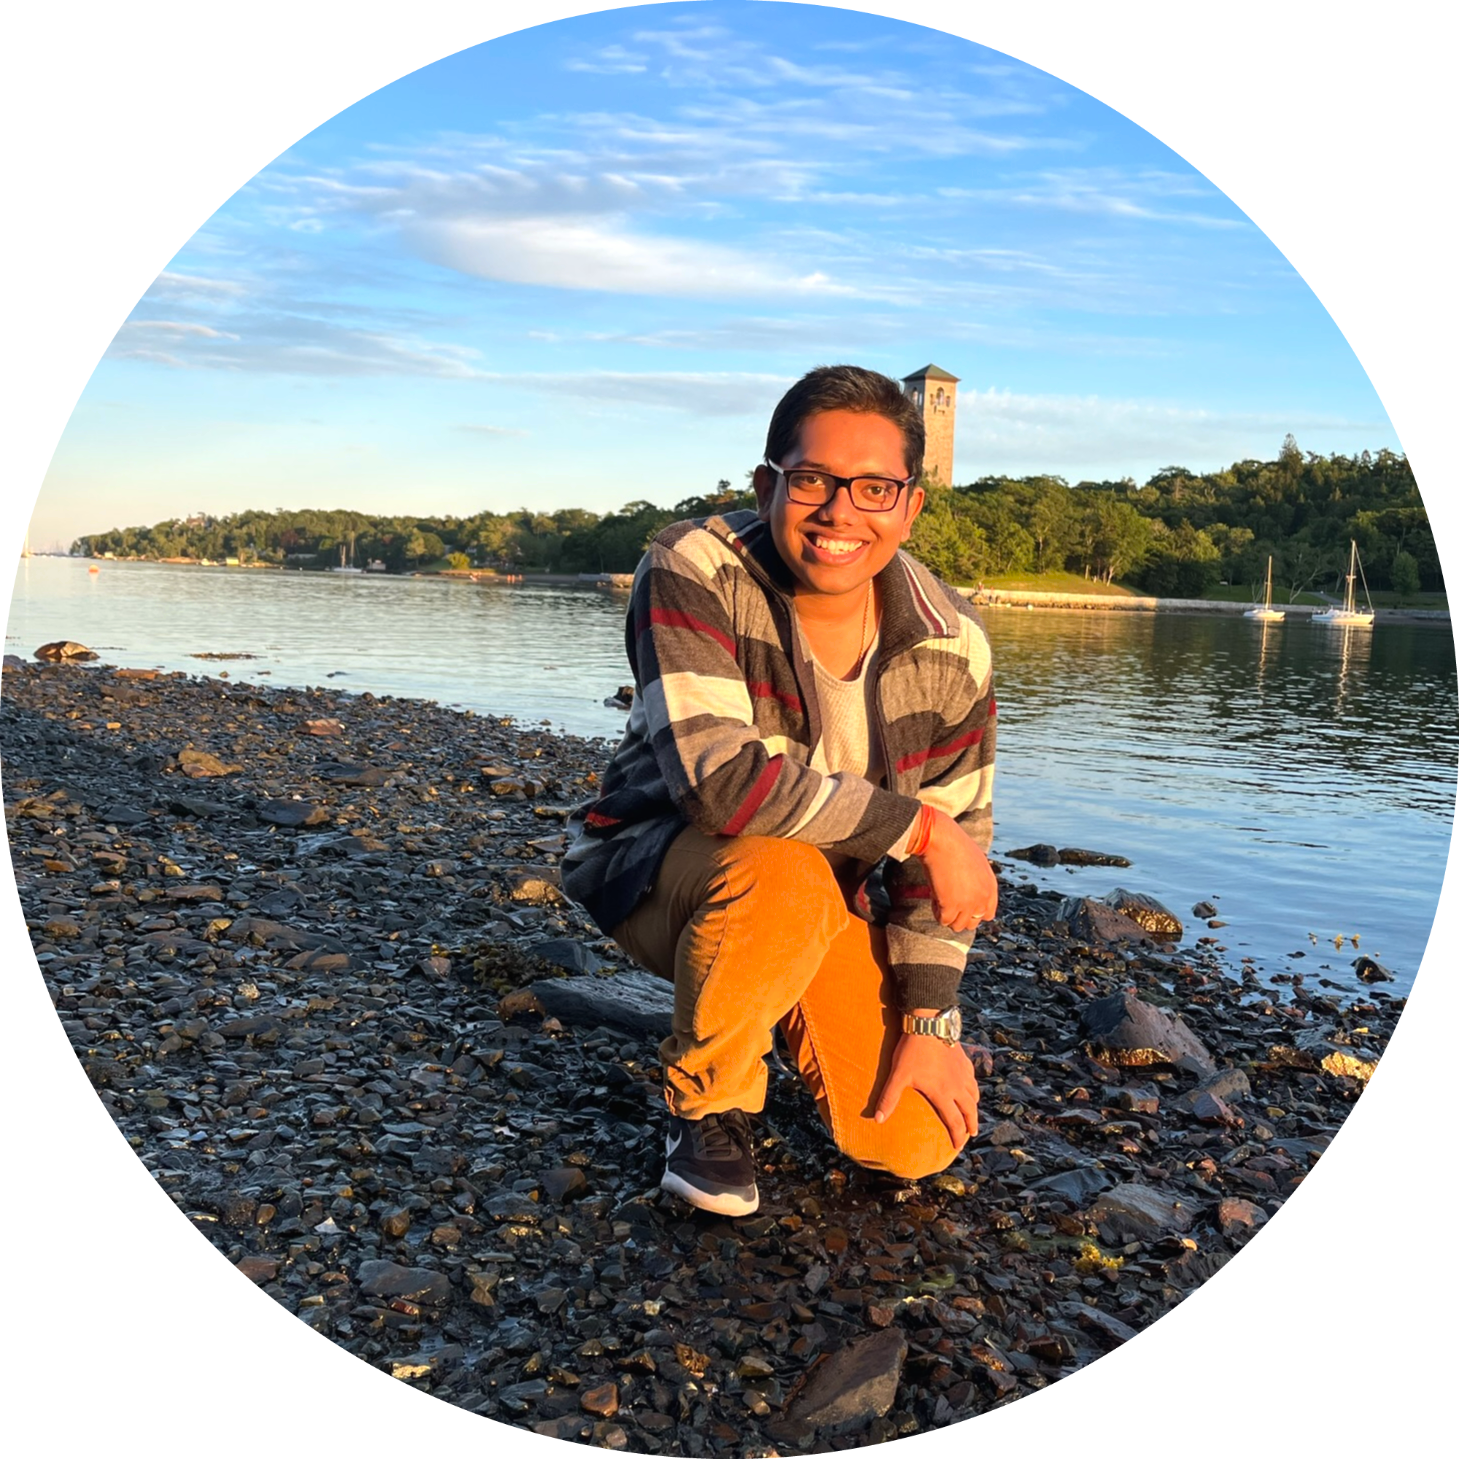
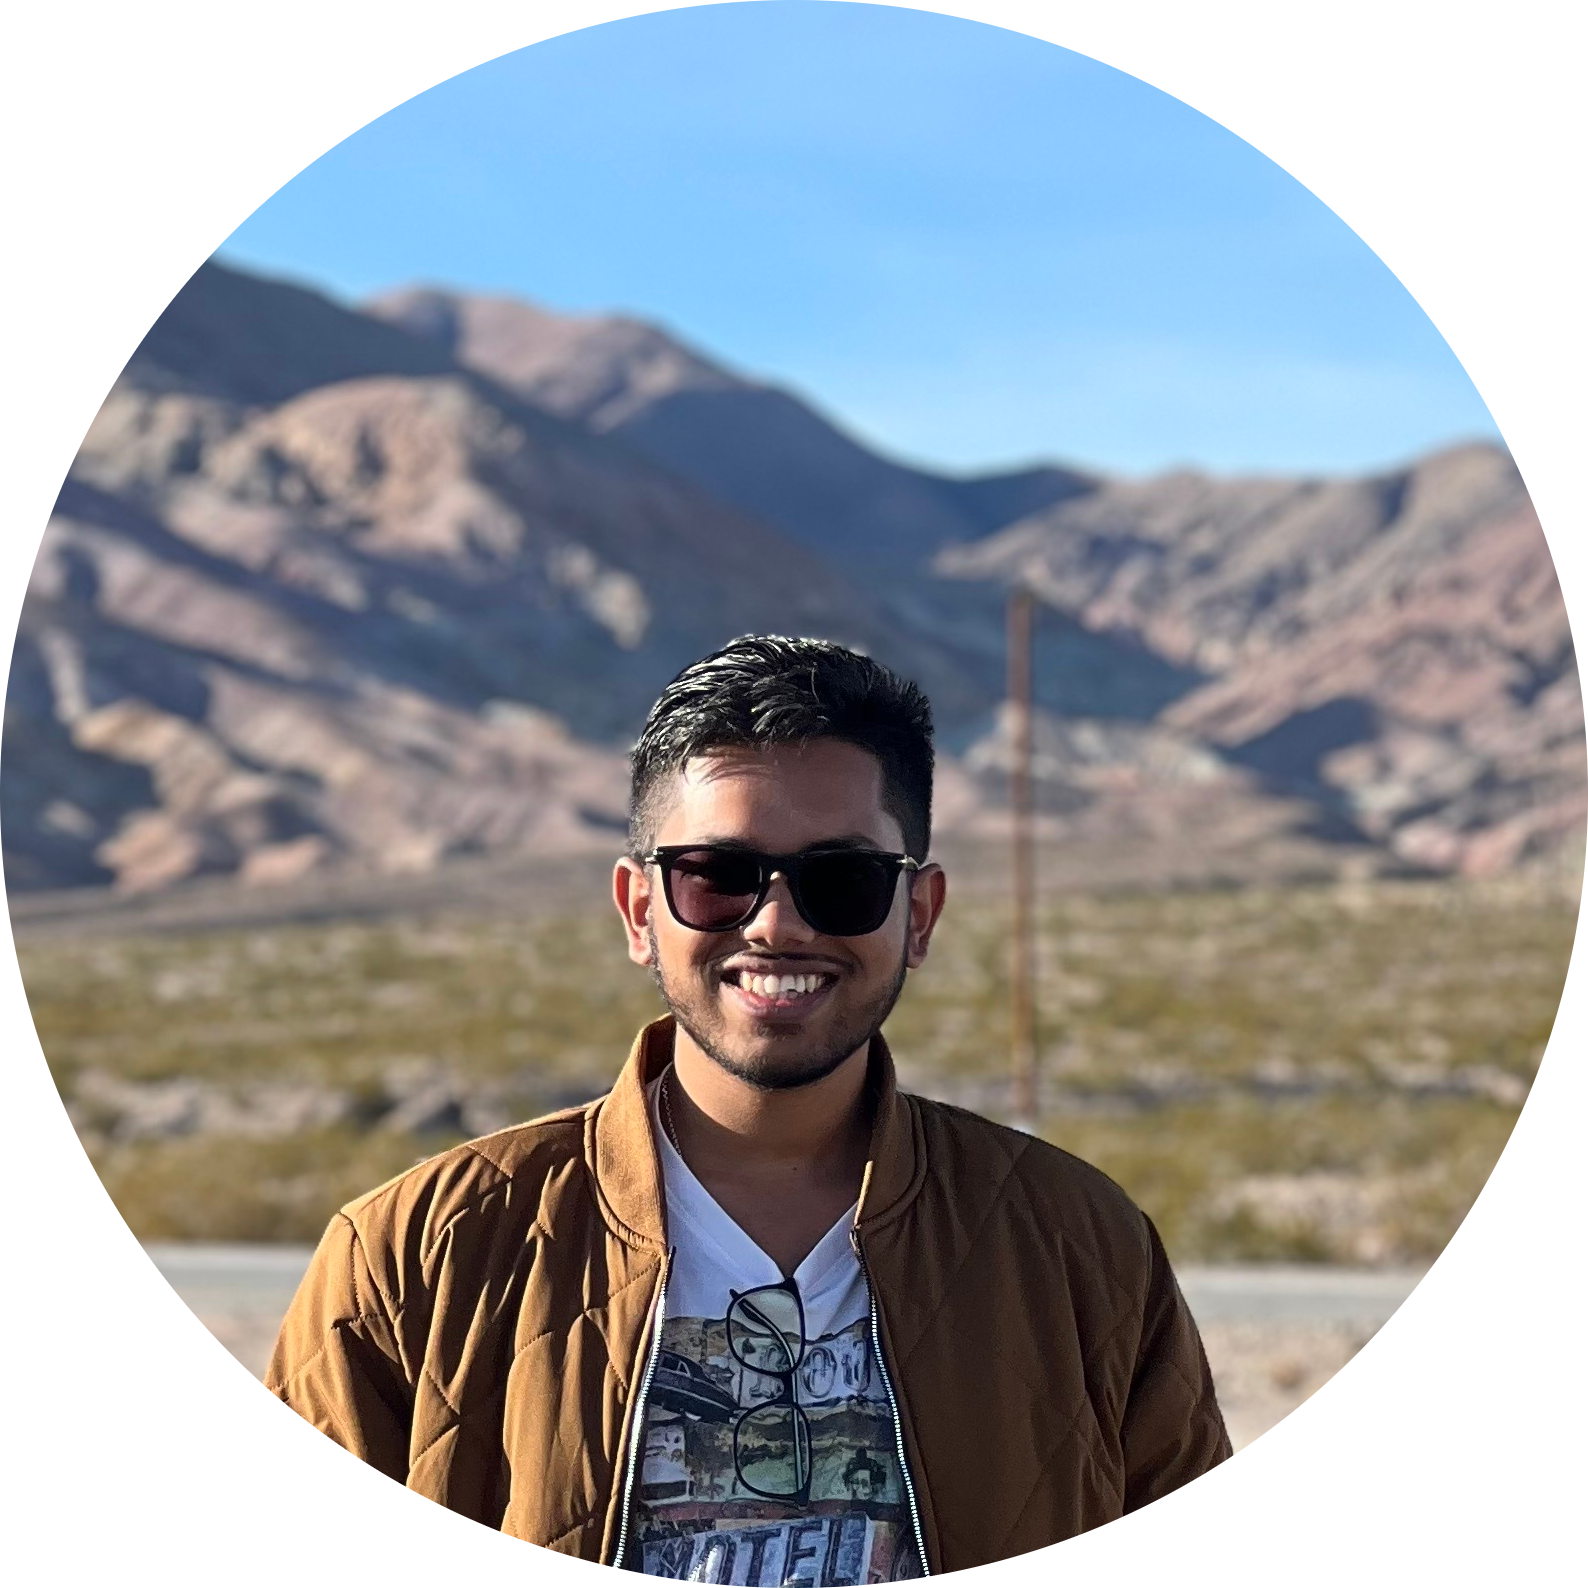
update

diff --git a/index.html b/index.html
@@ -52,12 +52,12 @@
               </head>
               
 
-              <p>I am a first year Ph.D. student at <strong>University of California, Riverside</strong> 
-                advised by <a href="https://vcg.ece.ucr.edu/amit">Prof. Amit K. Roy Chowdhury</a> and <a href="https://sites.google.com/view/arcs-lab/">Prof. Konstantinos Karydis</a>. 
-                I received my Bachelor in Technology (BTech.) degree in Computer Science and Engineering from <a href="https://www.caluniv.ac.in/campuses/campus-8.html">University of Calcutta</a>, India.
+              <p>I am a Ph.D. student at <strong>University of California, Riverside</strong> 
+                co-advised by Professors <a href="https://vcg.ece.ucr.edu/amit">Amit K. Roy Chowdhury</a> and <a href="https://sites.google.com/view/arcs-lab/">Konstantinos Karydis</a>. 
+                My research revolves around how autonomous systems perceive this world and building pipelines that can enable them to understand scenes using minimal supervision just as humans do.
               </p>
               
-              <p>I am fortunate to be advised by outstanding researchers over the years. I interned at <strong>Siemens</strong> with the <strong>Future of Automation (FoA) division</strong> 
+              <p>I received my Bachelor in Technology (BTech.) degree in Computer Science and Engineering from <a href="https://www.caluniv.ac.in/campuses/campus-8.html">University of Calcutta</a>, India. I am fortunate to be advised by some amazing researchers over the years. I interned at <strong>Siemens</strong> with the <strong>Future of Automation (FoA) division</strong> 
                 on designing sensor realistic LiDAR simulation systems. I am a recipient of the <a href="ttps://www.mitacs.ca/en/programs/globalink/globalink-research-internship">MITACS Globalink Fellowship</a>
                 and worked with <a href="https://cs.smu.ca/~jiju/">Prof. Jiju Poovvancheri</a> at <a href="https://www.smu.ca/math-cs/index.html">GSC Lab, Saint Mary's University</a>
                 on skeleton extraction for motion capture. Earlier, I spent consecutive semester breaks at <strong>Indian Institute of Science</strong> working with <a href="https://anirbanchakraborty.github.io/">Prof. Anirban Chakraborty</a> at 
@@ -65,9 +65,9 @@
                 <a href="https://sites.google.com/site/kunalnchaudhury/group">LISA Lab</a> on person-reidentification and lipschitz regularization respectively. I have
                 also worked extensively with <a href="https://sites.google.com/caluniv.ac.in/amlanc-org/">Prof. Amlan Chakrabarti</a> on action recognition from videos.
               </p>
-              <p>
-                Beyond academics, I am trained in the <a href="files/Cert_Fine_Arts.pdf">Fine Arts</a>, a competent photographer, amateur chess player and an incompetent guitarist.
-              </p>
+              <!-- <p>
+                Beyond academics, I find recreation in the <a href="files/Cert_Fine_Arts.pdf">Arts</a>, a competent photographer, amateur chess player.
+              </p> -->
               <p style="text-align:center">
                 <a href="mailto:sarosijbose2000-remove-if-human@gmail.com">Email</a>&nbsp/&nbsp
                 <a href="files/Sarosij_Bose_resume.pdf">CV</a> &nbsp/&nbsp
@@ -79,7 +79,7 @@
             </td>
             <td style="padding:2.5%;width:40%;max-width:40%">
               <img style="width:100%;max-width:100%" alt="profile photo" src="images/sarosijbose-circle.png" class="hoverZoomLink"><br><br>
-              <div style="width: 260px; text-align: center;"><strong>The "Atlantic", Halifax, CA</strong></div>
+              <!-- <div style="width: 260px; text-align: center;"><strong>The "Atlantic", Halifax, CA</strong></div> -->
             </td>
           </tr>
         </tbody></table>
@@ -90,10 +90,11 @@
             <td style="padding:20px;width:100%;vertical-align:middle">
               <heading>Research Interests</heading>
               <p>
-                My research has traditionally spanned various sub-domains of <b>Computer Vision</b> such as <b>video understanding</b>, <b>domain adaptation</b>, <b>person-reid</b>
-                and the like with a focus on designing efficient models for real-world applications. I have also had the opportunity to work on deep learning theory,
+                I am currently focused on enhancing the perception capabilities of autonomous systems by developing robust and generalizable world representations, with a particular interest in leveraging foundation models for comprehensive scene understanding. My previous work encompassed various sub-domains, including video understanding, person-reid and shape approximation methods with an emphasis on utilizing unlabeled data for real-world applications. <br>
+                <!-- Previously, my work has traditionally spanned various sub-domains of <b>Computer Vision</b> such as <b>video understanding</b>, <b>domain adaptation</b>, <b>person-reid</b>
+                and the like with a focus on leveraging unlabeled data for real-world applications. I have also had the opportunity to work on deep learning theory,
                 specifically in <b>robustness</b> and <b>generalization</b>. Recently, I have taken a liking to <b>Computer Graphics</b> as well, having worked on <b>shape approximation</b> algorithms and currently working on <b>BRDF</b> based rendering
-                methods.<br>
+                methods.<br> -->
                   <br>
                   <br>
                   I am always open to new collaborations and research ideas. Feel free to reach out if you are interested in working together!
@@ -104,26 +105,26 @@
       </tbody></table>
 
         <!-- NEWS -->
-        <table style="width:100%;border:0px;border-spacing:0px;border-collapse:separate;margin-right:auto;margin-left:auto;"><tbody>
-            <tr>
-              <td style="padding:20px;width:100%;vertical-align:middle">
-                <heading>News</heading>
-                <p>
-                  <font color="red"><strong>[New!!] </strong></font><strong>Aug '23 : </strong>I will be joining <strong>UC Riverside</strong> for my PhD! I will write a blog detailing my thoughts soon.<br>
-                  <font color="red"><strong>[New!!] </strong></font><strong>Jun '23 : </strong><strong>SoccerKDNet</strong> accepted to Springer <strong>PReMI 2023!</strong><br>
-                  <strong>Mar '23 : </strong>Joined <strong>Siemens</strong> as a <strong>research engineer intern!</strong><br>
-                  <strong>Jan '23 : </strong> Serving as a reviewer for <strong>MLRC'23</strong> <br>
-                  <strong>Oct '22 : </strong> <a href="https://arxiv.org/pdf/2207.07232.pdf">LBANN</a> accepted as a full paper to <strong>IEEE ICCCNT 2022!</strong><br>
-                  <strong>Oct '22 : </strong> <a href="https://doi.org/10.1109/ICCCIS56430.2022.10037612">Drone Assisted Classification paper</a> accepted at <strong>IEEE ICCCIS 2022!</strong><br>
-                  <strong>Sep '22 : </strong> Check out the <a href="files/MITACS_final_report_sarosij_bose.pdf">MITACS Report</a> and summer seminar <a href="files/SMU_summer_series.pdf">slides</a><br>
-                  <strong>Jul '22 : </strong> Accepted to the <strong>6th CVIT Summer School</strong> by IIIT Hyderabad!<br>
-                  <strong>May '22 : </strong> Accepted to the <strong>Robotics and AI Summer School 2022</strong> organized by IRI, CSIC-UPC!<br>
-                  <strong>Dec '21 : </strong> Awarded the <strong>MITACS GRI</strong> Fellowship! I will be visiting <strong>Saint Mary's University, Halifax</strong> for the summer<br>
-                  <!--<strong>May '22 : </strong> Started at <strong>Mercedes-Benz R & D</strong> as a Computer Vision Research Engineer! <br> -->
-                </p>
-              </td>
-            </tr>
-        </tbody></table>
+        <div id="news-section" style="width:100%; padding:20px; box-sizing: border-box;">
+          <heading>News</heading>
+          <div style="width:100%; height:150px; overflow-y:scroll;">
+            <p>
+              <font color="red"><strong>[New!!] </strong></font><strong>Dec '23 : </strong>Started the <strong>CRIS Colloquium</strong>, check it out <a href="hhttps://live-ucr-crisbcoe.pantheonsite.io/">here</a><br>
+              <strong>Oct '23 : </strong>Serving as a reviewer for <strong>ICASSP 2023</strong><br>
+              <strong>Aug '23 : </strong>I will be joining <strong>UC Riverside</strong> for my PhD!<br>
+              <strong>Jun '23 : </strong><strong>SoccerKDNet</strong> accepted to Springer <strong>PReMI 2023!</strong><br>
+              <strong>Mar '23 : </strong>Joined <strong>Siemens</strong> as a <strong>research engineer intern!</strong><br>
+              <strong>Jan '23 : </strong> Serving as a reviewer for <strong>MLRC'23</strong> <br>
+              <strong>Oct '22 : </strong> <a href="https://arxiv.org/pdf/2207.07232.pdf">LBANN</a> accepted as a full paper to <strong>IEEE ICCCNT 2022!</strong><br>
+              <strong>Oct '22 : </strong> <a href="https://doi.org/10.1109/ICCCIS56430.2022.10037612">Drone Assisted Classification paper</a> accepted at <strong>IEEE ICCCIS 2022!</strong><br>
+              <strong>Sep '22 : </strong> Check out the <a href="files/MITACS_final_report_sarosij_bose.pdf">MITACS Report</a> and summer seminar <a href="files/SMU_summer_series.pdf">slides</a><br>
+              <strong>Jul '22 : </strong> Accepted to the <strong>6th CVIT Summer School</strong> by IIIT Hyderabad!<br>
+              <strong>May '22 : </strong> Accepted to the <strong>Robotics and AI Summer School 2022</strong> organized by IRI, CSIC-UPC!<br>
+              <strong>Dec '21 : </strong> Awarded the <strong>MITACS GRI</strong> Fellowship! I will be visiting <strong>Saint Mary's University, Halifax</strong> for the summer<br>
+              <!--<strong>May '22 : </strong> Started at <strong>Mercedes-Benz R & D</strong> as a Computer Vision Research Engineer! <br> -->
+            </p>
+          </div>
+        </div>
 
         <!-- PUBLICATIONS -->
         <table style="width:100%;border:0px;border-spacing:0px;border-collapse:separate;margin-right:auto;margin-left:auto;">

diff --git a/stylesheet.css b/stylesheet.css
@@ -215,3 +215,15 @@ name {
 span.highlight {
   background-color: #ffffd0;
 }
+
+#news-section {
+  width: 100%;
+  padding: 20px;
+  box-sizing: border-box;
+}
+
+#news-section div {
+  width: 100%;
+  height: 250px;
+  overflow-y: scroll;
+}

diff --git a/README.md b/README.md
@@ -2,11 +2,4 @@
 
 Visit it [here!](https://sarosijbose.github.io/)
 
-## TODO :soon:
-- [X] ~~Build website~~
-- [X] ~~Add PhD affliation.~~
-- [ ] Add dark/light mode switch.
-- [X] ~~Add paper acceptance.~~
-- [X] ~~Modify collage at bottom.~~
-
 Template credit: https://jonbarron.info/
